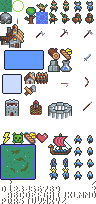
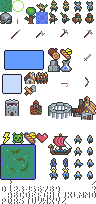
swapping tilesheet tiles

Changed region(s): [[0.75, 0.4706, 1.0, 0.5882], [0.0, 0.1176, 0.25, 0.2353]]

diff --git a/src/js/objects/Unit.js b/src/js/objects/Unit.js
@@ -87,7 +87,7 @@ class Unit extends EngineObject {
 		else if (this.weapon == 'sword')
 			tilePos = vec2(72, 48);
 		else if (this.weapon == 'spear')
-			tilePos = vec2(72, 96);
+			tilePos = vec2(0, 24);
 		else if (this.weapon == 'bow')
 			tilePos = vec2(72);
 

diff --git a/src/js/objects/Building_TownHall.js b/src/js/objects/Building_TownHall.js
@@ -3,7 +3,7 @@ class Building_TownHall extends Building {
 
 	constructor(pos) {
 
-		super(pos, vec2(2), tile(vec2(0, 24), 24));
+		super(pos, vec2(2), tile(vec2(72, 96), 24));
 
 		this.popSupport = 3;
 		this.hitPoints = 18;
